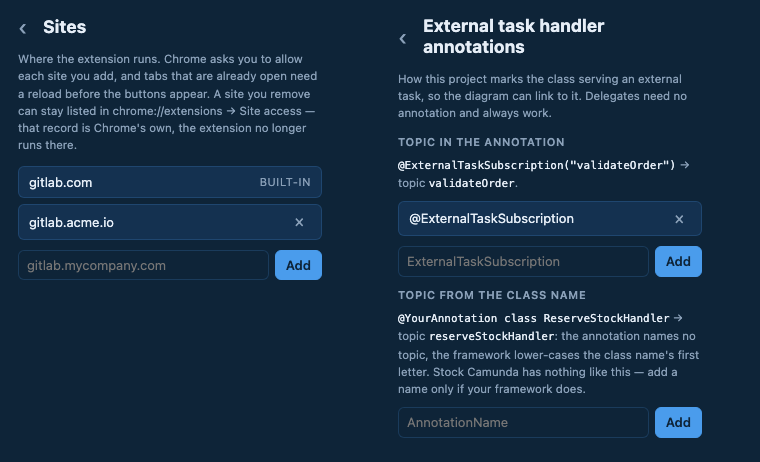
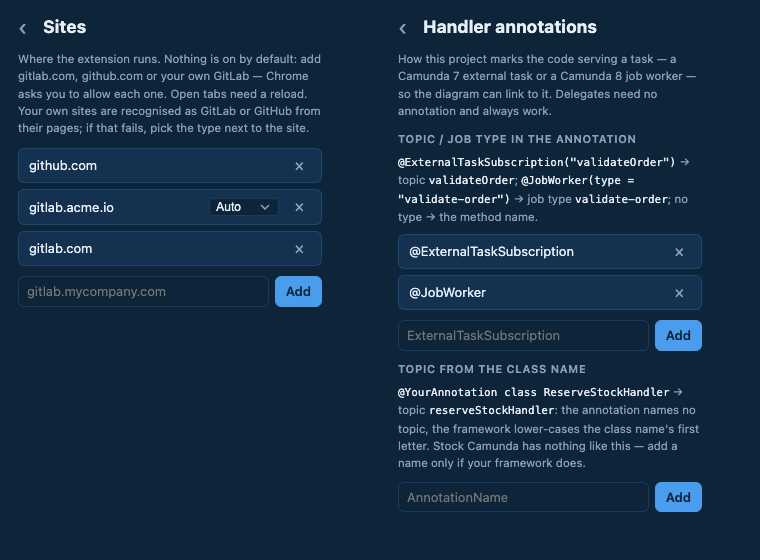
docs: INFRA-0012 store name and summary, popup picture, entry-button store shot

diff --git a/README.md b/README.md
@@ -57,7 +57,7 @@ The same popup sets which annotations mark task handlers, if your project uses s
 other than `@ExternalTaskSubscription` (Camunda 7) and `@JobWorker` (Camunda 8) — for
 example `@ZeebeWorker`.
 
-![The popup: the Sites list with gitlab.com and a self-managed host added, and the handler annotation settings](docs/media/popup.png)
+![The popup: the Sites list with github.com, gitlab.com and a self-managed host added, and the handler annotation settings](docs/media/popup.png)
 
 ## Features
 
@@ -94,6 +94,7 @@ file page; navigation (diving into called processes, callers, handlers) works wi
 - A menu of every diagram that calls the one on screen
 - Navigating from a Business Rule Task to the called DMN — and back
 - Jumping to the handler code of a service task (external task, delegate or Camunda 8 job worker): to its file in the repository, or to its diff when the merge or pull request changed it
+- The same for Camunda 7 execution and task listeners (a class or a delegate)
 - Jumping from a message-catching event/task to where its message is correlated in code
 
 ![Diving into a call activity, whose changed handler opens its diff in the merge request; diving further down; the menu of every diagram that calls this one; and a business rule task opening its DMN decision with the merge request's changes](docs/media/diagrams.gif)

diff --git a/docs/issues/infra/infra-0012-cws-listing-refresh.md b/docs/issues/infra/infra-0012-cws-listing-refresh.md
@@ -54,6 +54,14 @@ the extension is reached on a GitLab page.
 <!-- Each AI session on the task — a separate entry by the template below.
      Add new entries on top (freshest first). -->
 
+### 2026-10-13 · claude-opus-5-5 · branch `fix/infra-0012-store-listing`
+
+Items 1–3 and the popup picture: the name and summary in `manifest.json`, the store texts in
+the local `CWS-bpmn-surf.md`. Screenshots (item 3): `record-demo.mjs` shoots `2-buttons.png` (the MR page with the
+"Schema diff" button) in place of `2-condition.png`. `docs/media/popup.png` retaken (three
+sites, default annotations); the README gains the listener-badge line FEAT-0019 left out.
+Remaining: re-record the screenshots, then the owner uploads texts and screenshots.
+
 ### 2026-10-13 · claude-opus-5-5 · branch `fix/infra-0012-privacy-github`
 
 Item 4, the privacy policy: `PRIVACY.md` rewritten for GitHub and checked against the code —

diff --git a/test/e2e/live/README.md b/test/e2e/live/README.md
@@ -70,8 +70,9 @@ media (`record-demo.mjs`) and re-checking the reviewer instructions signed out
 (`BPMN_SURF_ANONYMOUS=1`).
 
 After a re-recording, copy the GIFs into `docs/media/` under the same names. The README's
-`popup.png` is the Sites and annotations screens of `popup-screens.mjs`, cropped and set side
-by side. The five 1280×800 screenshots are the store's. Store assets, including the promo
+`popup.png` is the Sites and annotations screens of the popup (as `popup-screens.mjs` renders
+them, with github.com, gitlab.com and a self-managed host granted and the default
+annotations), cropped to 380×560 and set side by side. The five 1280×800 screenshots are the store's. Store assets, including the promo
 tile and its own small diagram, are kept with the owner's store notes, not in this repository.
 
 The project access token (`~/.config/bpmn-surf-demo-token`, Maintainer, scope `api`) is
